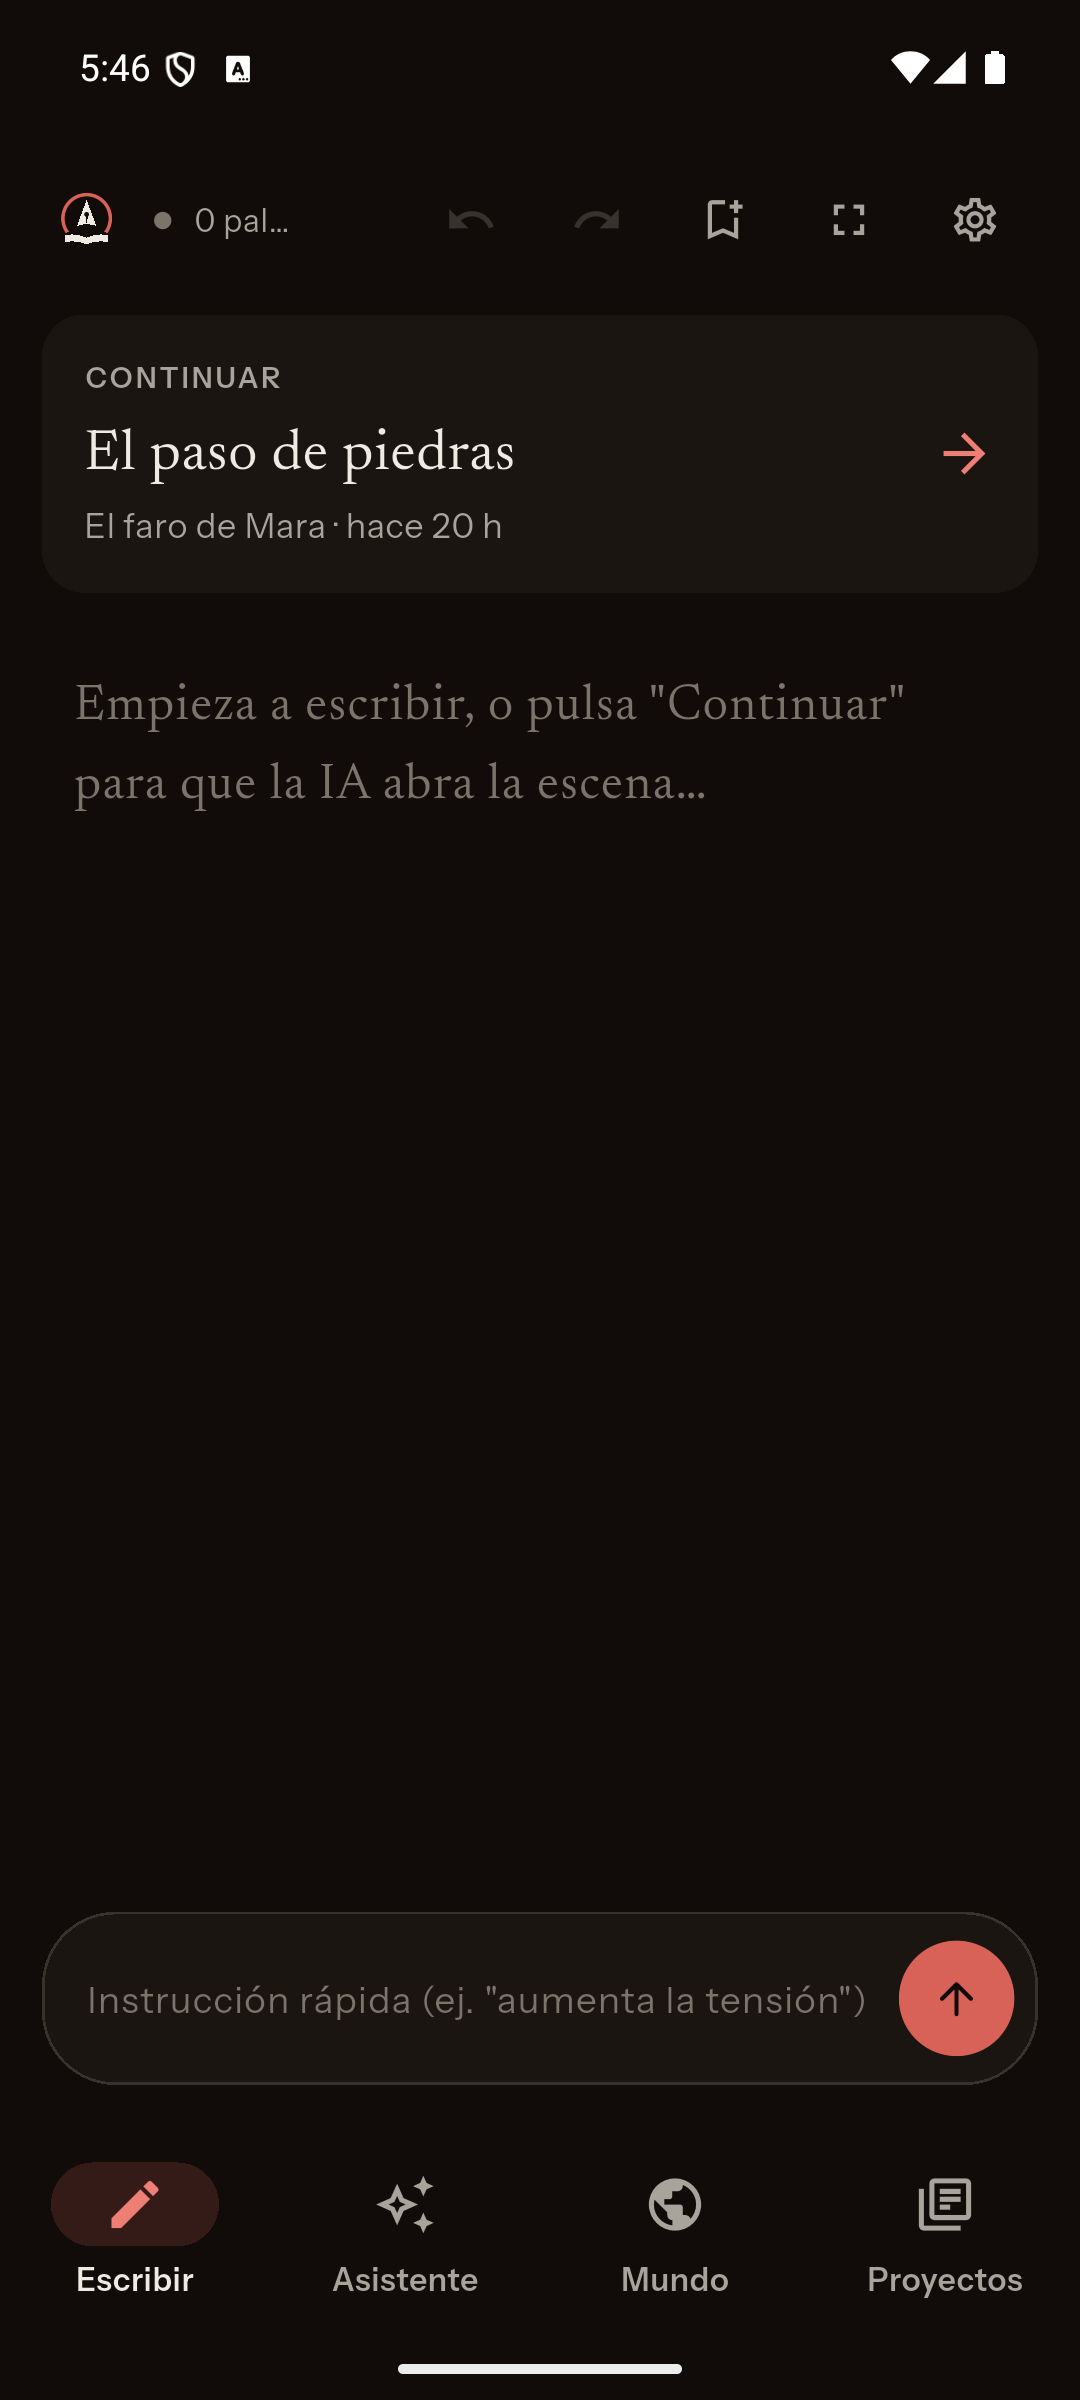
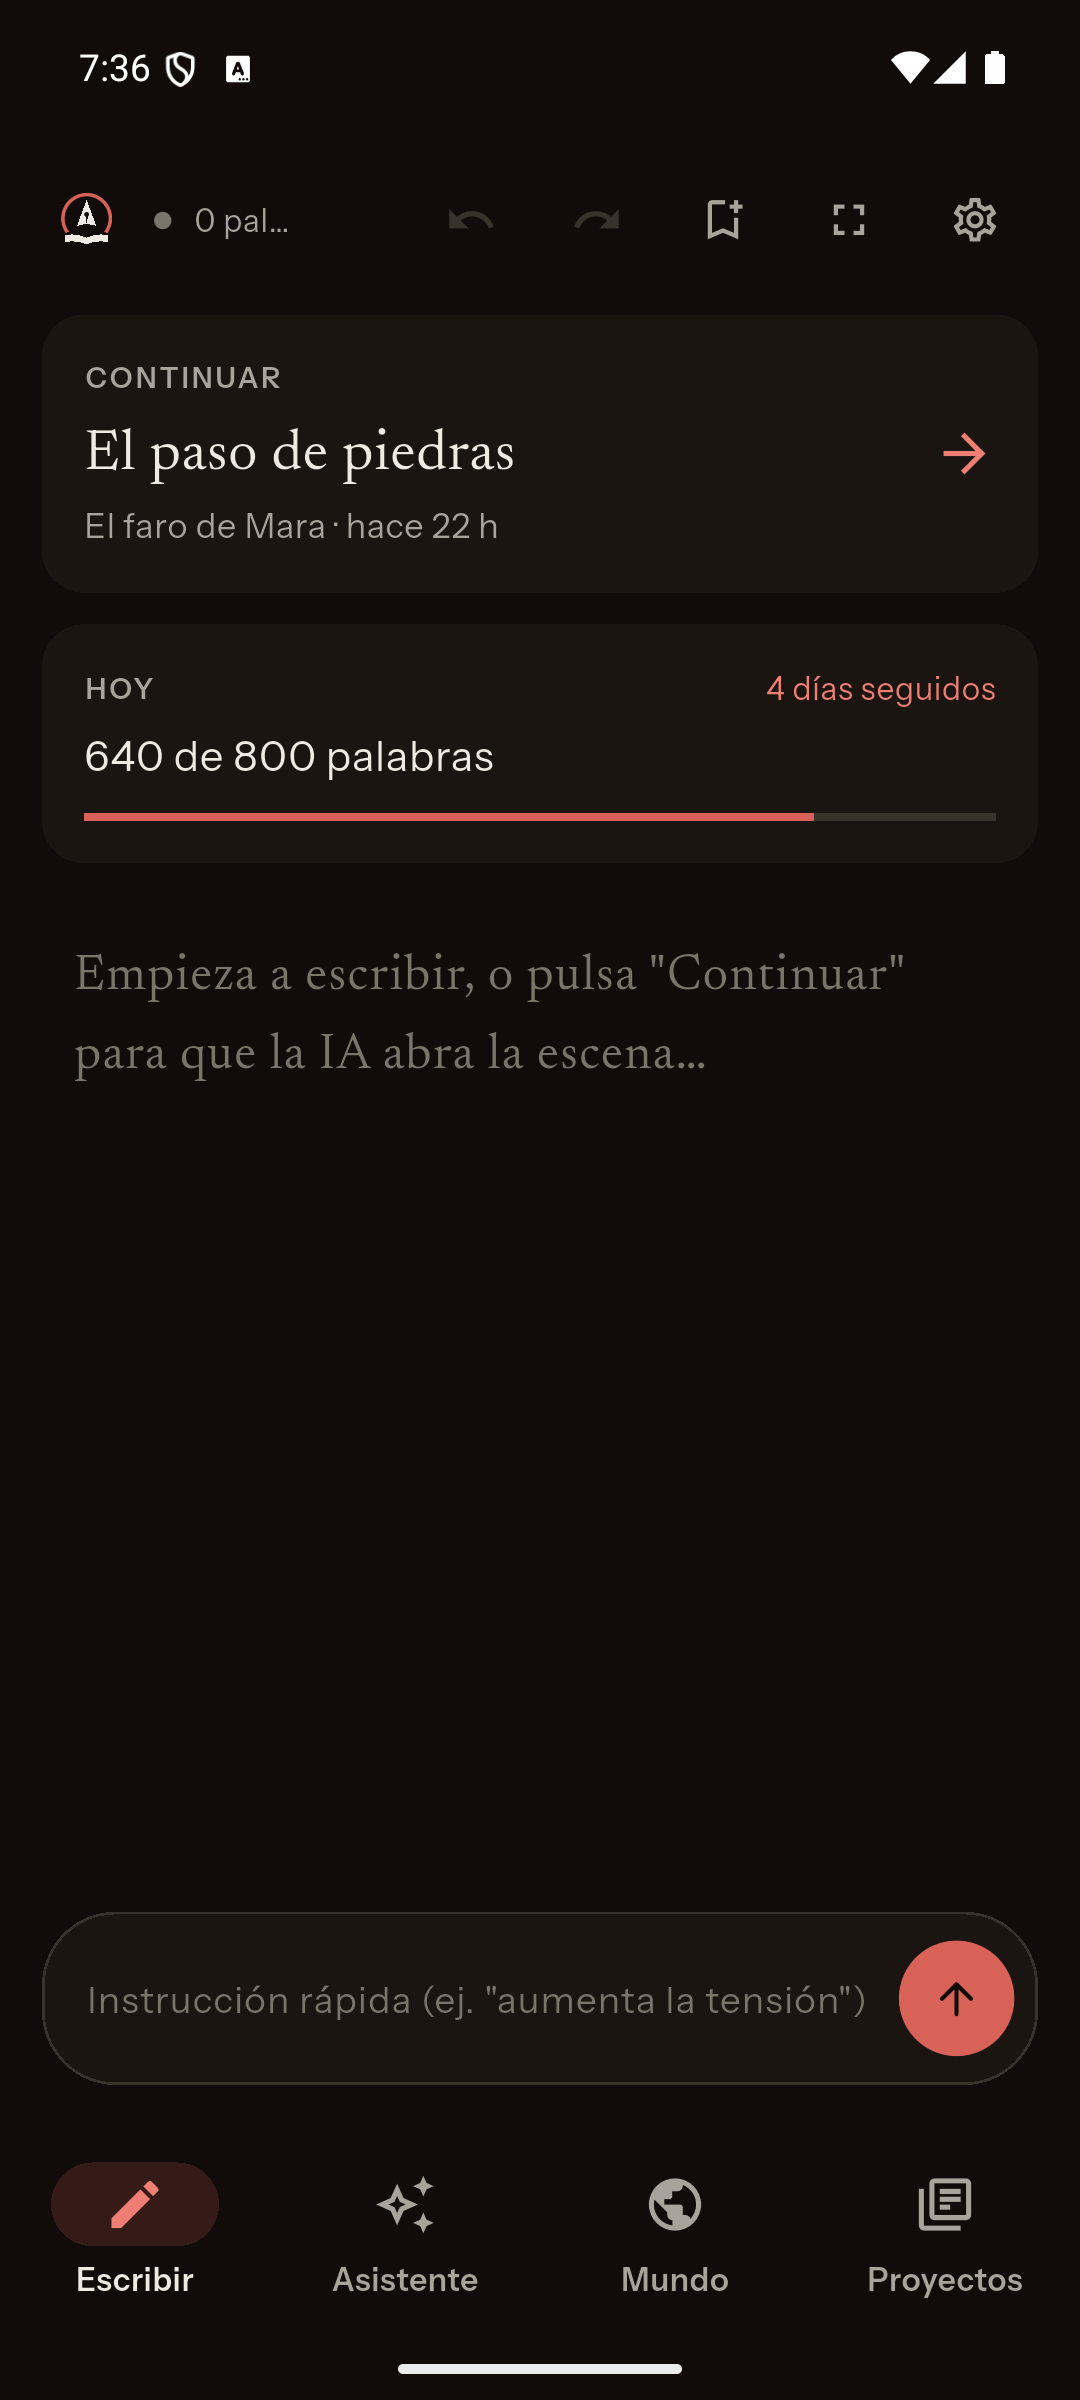
README y capturas: tablero, mapa de relaciones, meta diaria y exportar a DOCX

diff --git a/README.md b/README.md
@@ -4,6 +4,8 @@ App móvil (Flutter, Android) para escribir novelas con ayuda de una IA. Hice la
 
 ![Escribir](docs/screenshots/01-escribir.png) ![Asistente](docs/screenshots/02-asistente.png) ![Mundo](docs/screenshots/03-mundo.png) ![Proyectos](docs/screenshots/04-proyectos.png)
 
+![Tablero](docs/screenshots/06-tablero.png) ![Relaciones](docs/screenshots/07-relaciones.png)
+
 Las capturas son del emulador de Android con un proyecto de ejemplo (el texto de la novela de muestra lo escribí yo para la demo).
 
 ## Qué hace
@@ -15,8 +17,13 @@ Las capturas son del emulador de Android con un proyecto de ejemplo (el texto de
 - **Proyectos y capítulos** guardados en SQLite local, y cada capítulo guarda su historial como un árbol de ramas (`story_nodes`): puedes bifurcar desde cualquier punto y volver a cargar una rama en el editor.
 - **Estudio de personajes y lore:** fichas de personajes y de elementos del mundo. Cada ficha pertenece a un proyecto o al universo compartido (visible en todos tus libros). `ContextBuilderService` detecta en el texto reciente los nombres y etiquetas que aparecen, más lo que fuerces incluir, y los manda como contexto a la IA para que no se contradiga. El bloque tiene un tope de caracteres que se ajusta en Ajustes de API (3000 por defecto).
 - **Resúmenes por capítulo:** un botón en la lista de capítulos le pide a la IA un resumen, y el editor lo manda como contexto al escribir los capítulos siguientes.
-- **Exportar** a TXT, PDF o EPUB y compartir el archivo.
+- **Exportar** a TXT, PDF, EPUB o DOCX (con formato de manuscrito: Times 12, doble espacio, portada, un capítulo por página) y compartir el archivo.
 - **Revisión de coherencia:** un botón por capítulo pide a la IA que lo compare con las fichas y los resúmenes anteriores y lista las contradicciones. No corre sola.
+- **Tablero** del proyecto: cada capítulo tiene una etapa (idea, borrador, revisión, listo) y unos hilos de la trama. Se filtra por hilo y una tarjeta se edita tocándola.
+- **Mapa de relaciones** entre personajes, dibujado a partir de las relaciones que ya guardan las fichas.
+- **Meta diaria y racha:** la pestaña Escribir cuenta las palabras de hoy contra una meta que tú pones y los días seguidos escribiendo. Cuenta lo que se añade en el editor, también el texto de la IA que aceptas.
+- **Vista de cambios:** cuando una herramienta reescribe un pasaje, la comparación va palabra por palabra y aceptas o rechazas cada cambio. El historial de versiones también compara una versión con la anterior.
+- **Voz del autor:** pegas unas páginas tuyas en el perfil del proyecto y el modelo imita tu ritmo y tu manera de decir las cosas.
 - **Línea de tiempo** por proyecto: eventos que se ordenan arrastrando y se enlazan al capítulo donde ocurren. Opcionalmente un calendario propio (era y meses) para escribir las fechas del mundo.
 - **Mapa:** eliges una imagen y le pones pines que pueden apuntar a una entrada de lore. La imagen no entra en la copia de seguridad.
 - **Wiki exportable:** un zip con HTML estático de personajes, lore y línea de tiempo, para subir donde quieras. Cada ficha tiene "visible desde el capítulo N" y al exportar eliges hasta qué capítulo mostrar. Los secretos del personaje nunca se publican.
